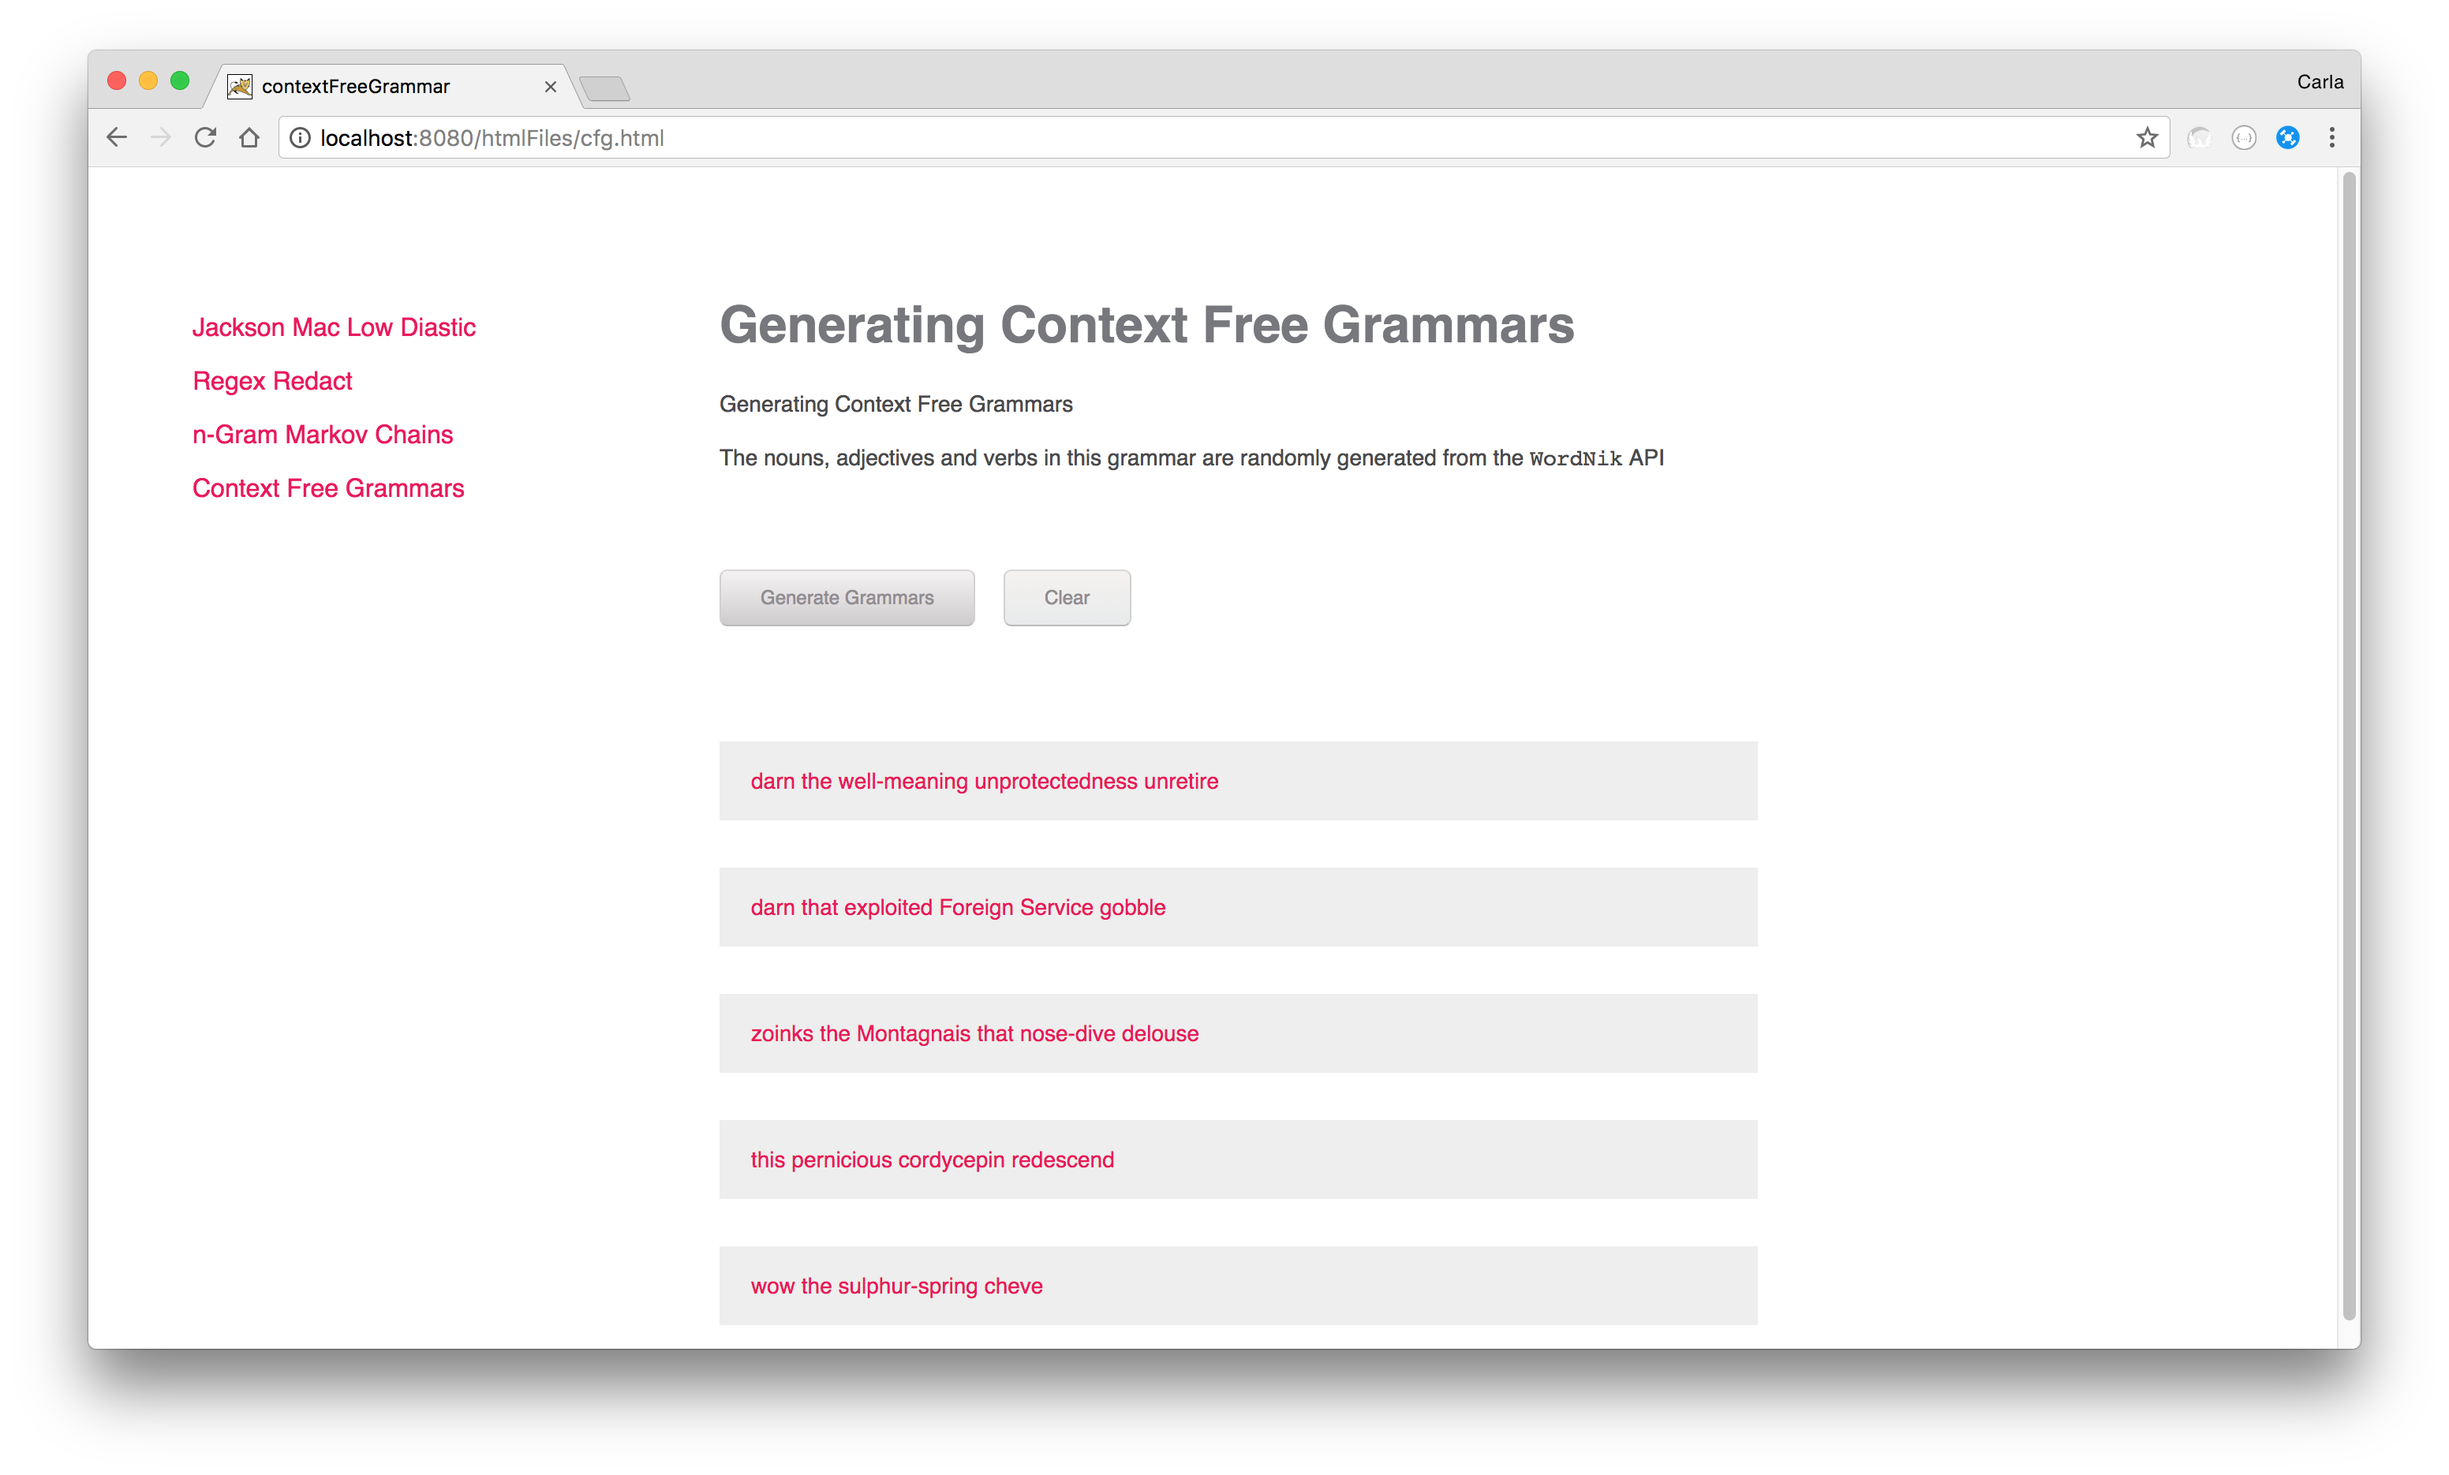
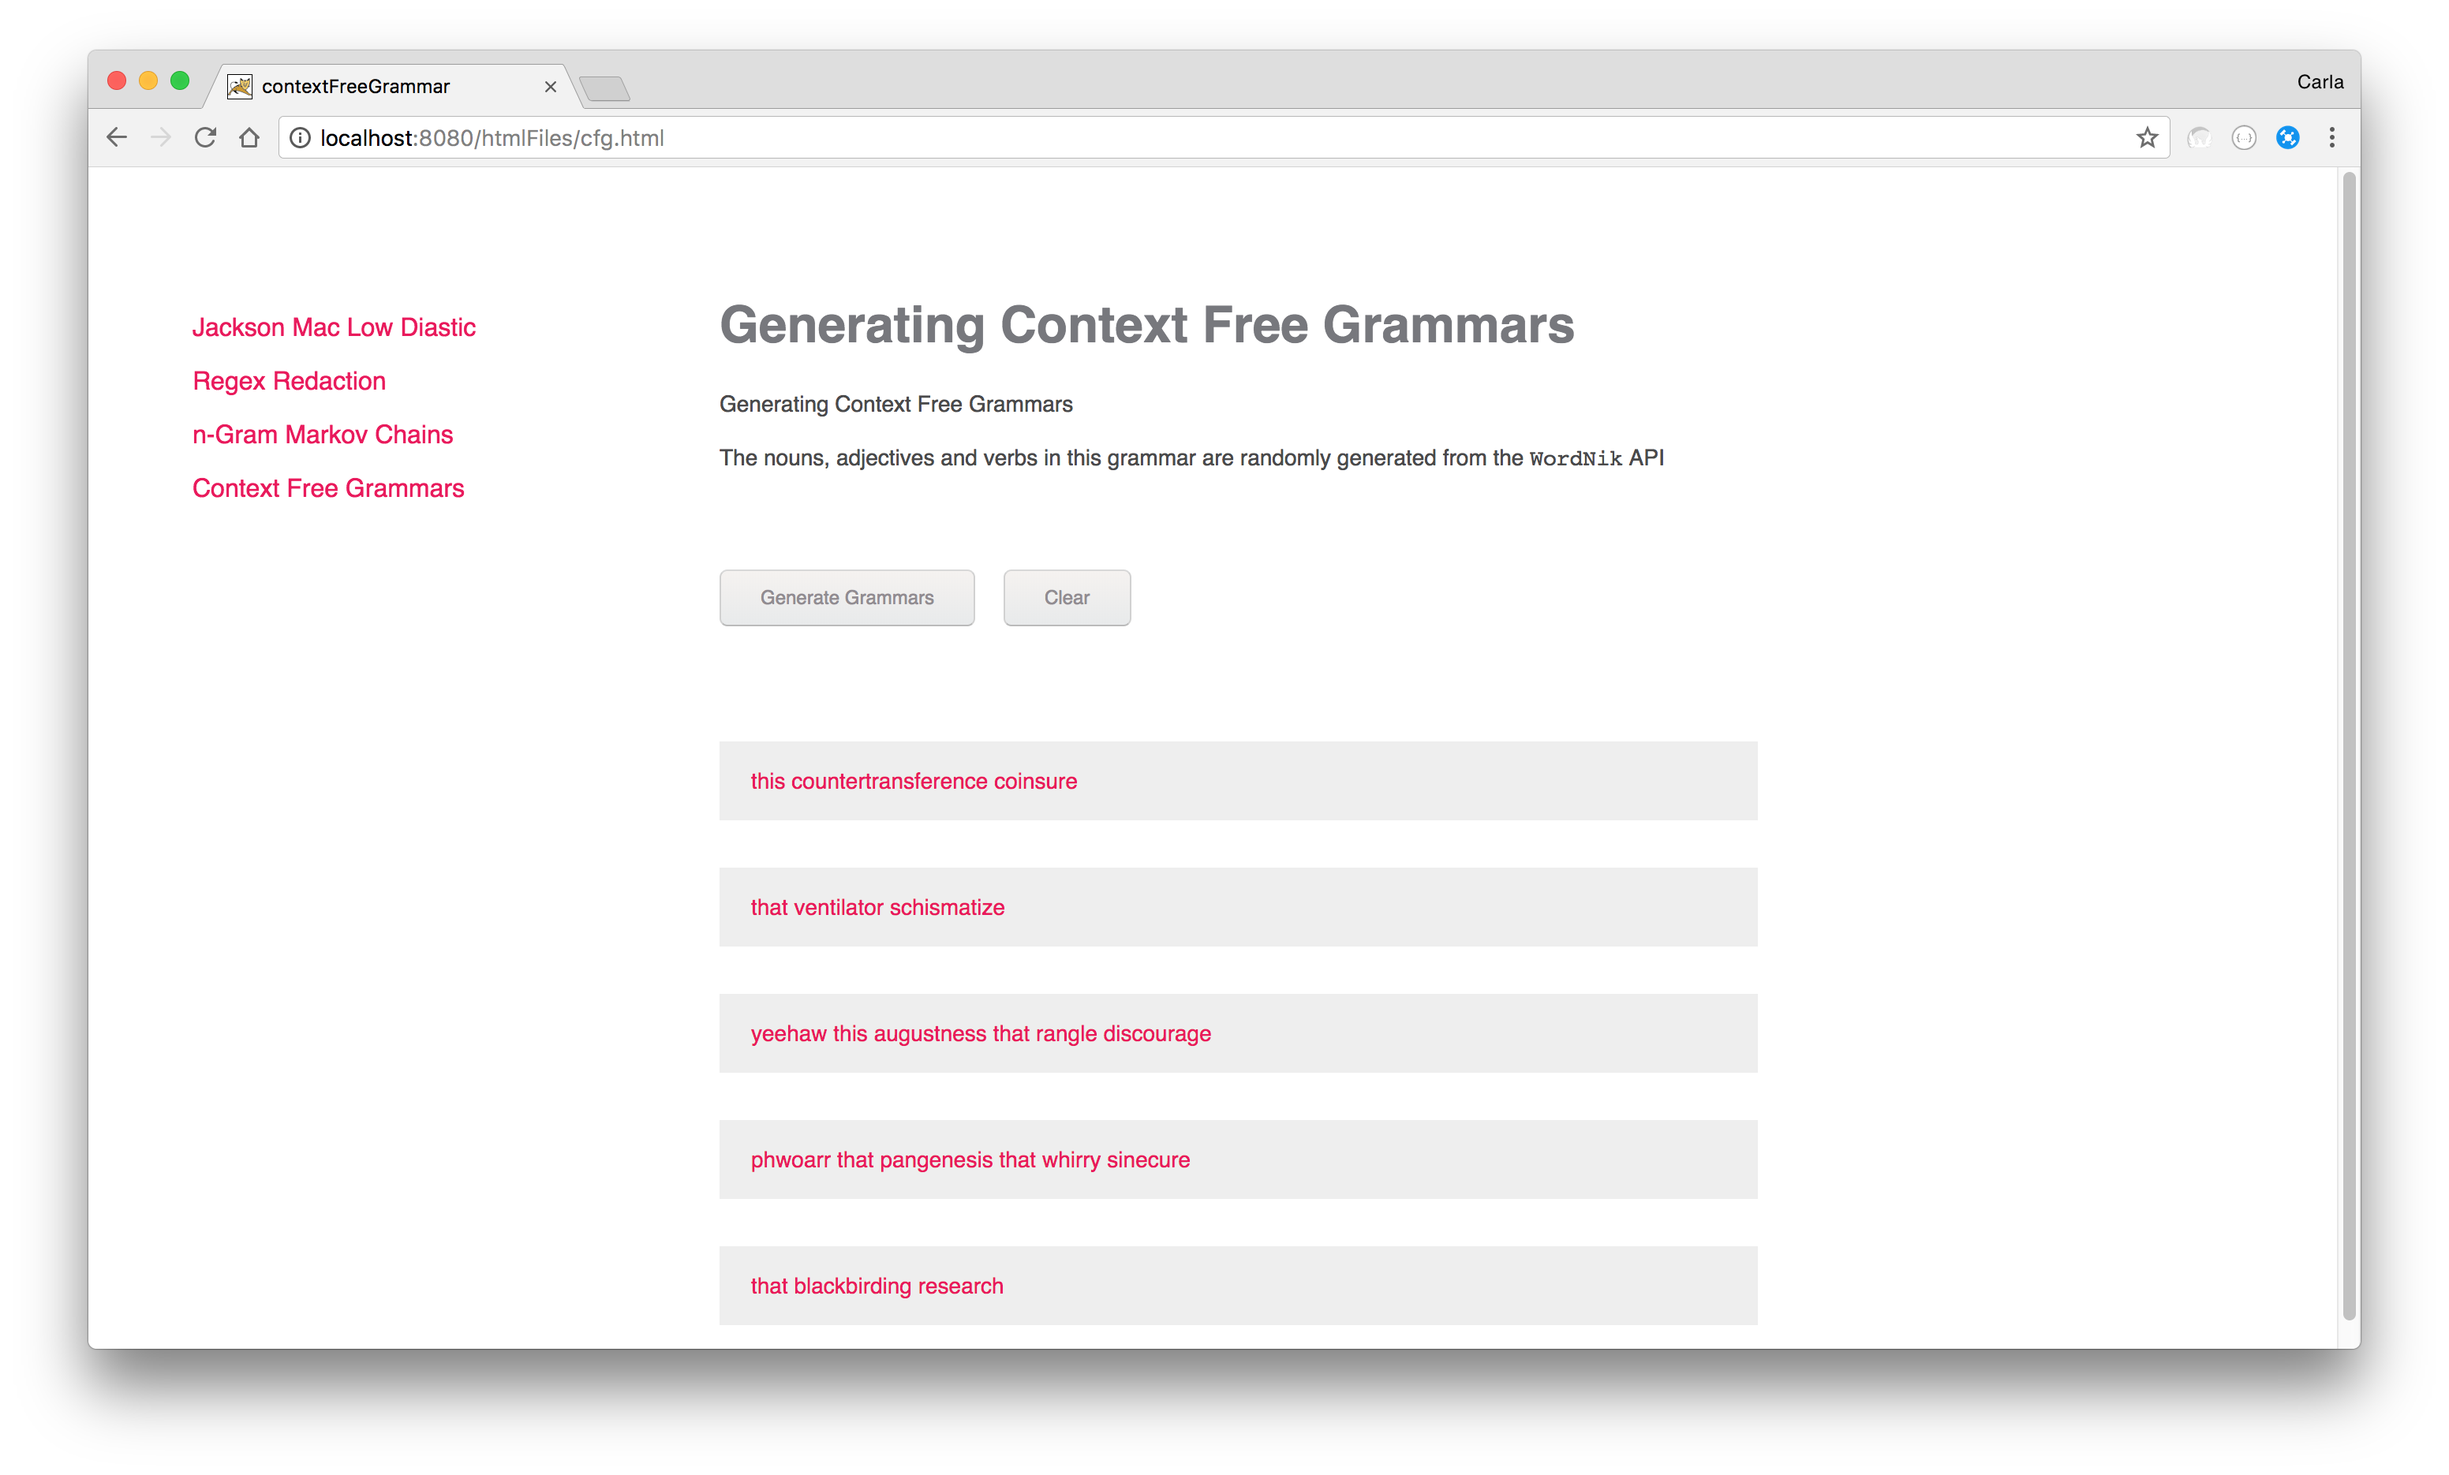
Minor updates

diff --git a/regex.html b/regex.html
@@ -2,7 +2,7 @@
 <html>
   <head>
       <meta charset="UTF-8">
-      <title>Regex Redactions</title>
+      <title>Regex Redaction</title>
       <script src="libraries/p5.js" type="text/javascript"></script>
       <script src="libraries/p5.dom.js" type="text/javascript"></script>
       <script src="scripts/regexSketch.js" type="text/javascript"></script>
@@ -14,7 +14,7 @@
   <body>
 
     <div class="container">
-      <h1>Regex Redactions</h1>
+      <h1>Regex Redaction</h1>
       <p class="para">Enter text into the field below, click to submit, and hover over the generated text to redact it.
       <br /><br /><br />
       <textarea rows="4" cols="100" rows="10" id="input">A rainbow is a meteorological phenomenon that is caused by reflection, refraction and dispersion of light in water droplets resulting in a spectrum of light appearing in the sky.It takes the form of a multicoloured arc.Rainbows caused by sunlight always appear in the section of sky directly opposite the sun.
@@ -29,7 +29,7 @@
 
     <ul>
         <li><a href="index.html">Jackson Mac Low Diastic</a></li>
-        <li><a href="regex.html">Regex Redactions</a></li>
+        <li><a href="regex.html">Regex Redaction</a></li>
         <li><a href="nGramMarkov.html">n-Gram Markov Chains</a></li>
         <li><a href="cfg.html">Context Free Grammars</a></li>
     </ul>

diff --git a/cfg.html b/cfg.html
@@ -22,7 +22,7 @@
         </div>
         <ul>
             <li><a href="index.html">Jackson Mac Low Diastic</a></li>
-            <li><a href="regex.html">Regex Redactions</a></li>
+            <li><a href="regex.html">Regex Redaction</a></li>
             <li><a href="nGramMarkov.html">n-Gram Markov Chains</a></li>
             <li><a href="cfg.html">Context Free Grammars</a></li>
         </ul>

diff --git a/nGramMarkov.html b/nGramMarkov.html
@@ -36,7 +36,7 @@
 
       <ul>
           <li><a href="index.html">Jackson Mac Low Diastic</a></li>
-          <li><a href="regex.html">Regex Redactions</a></li>
+          <li><a href="regex.html">Regex Redaction</a></li>
           <li><a href="nGramMarkov.html">n-Gram Markov Chains</a></li>
           <li><a href="cfg.html">Context Free Grammars</a></li>
       </ul>

diff --git a/index.html b/index.html
@@ -30,7 +30,7 @@
 
     <ul>
         <li><a href="index.html">Jackson Mac Low Diastic</a></li>
-        <li><a href="regex.html">Regex Redactions</a></li>
+        <li><a href="regex.html">Regex Redaction</a></li>
         <li><a href="nGramMarkov.html">n-Gram Markov Chains</a></li>
         <li><a href="cfg.html">Context Free Grammars</a></li>
     </ul>

diff --git a/README.md b/README.md
@@ -6,15 +6,14 @@ The following generative text strategies have been implemented:
 * Jackson Mac Low Diastic
 * N-Gram Markov Chain
 * Context Free Grammer
-* Regex Text Manipulation
+* Regex Redaction
 
 The website can be viewed via the following URL: https://carla-de-beer.github.io/Text-Generators/
 
 </br>
 <p align="center">
-  <img src="images/screenShot-04.png"/>
-  <img src="images/screenShot-03.png"/>
-  <img src="images/screenShot-02.png"/>
   <img src="images/screenShot-01.png"/>
+  <img src="images/screenShot-02.png"/>
+  <img src="images/screenShot-03.png"/>
+  <img src="images/screenShot-04.png"/>
 </p>
-
